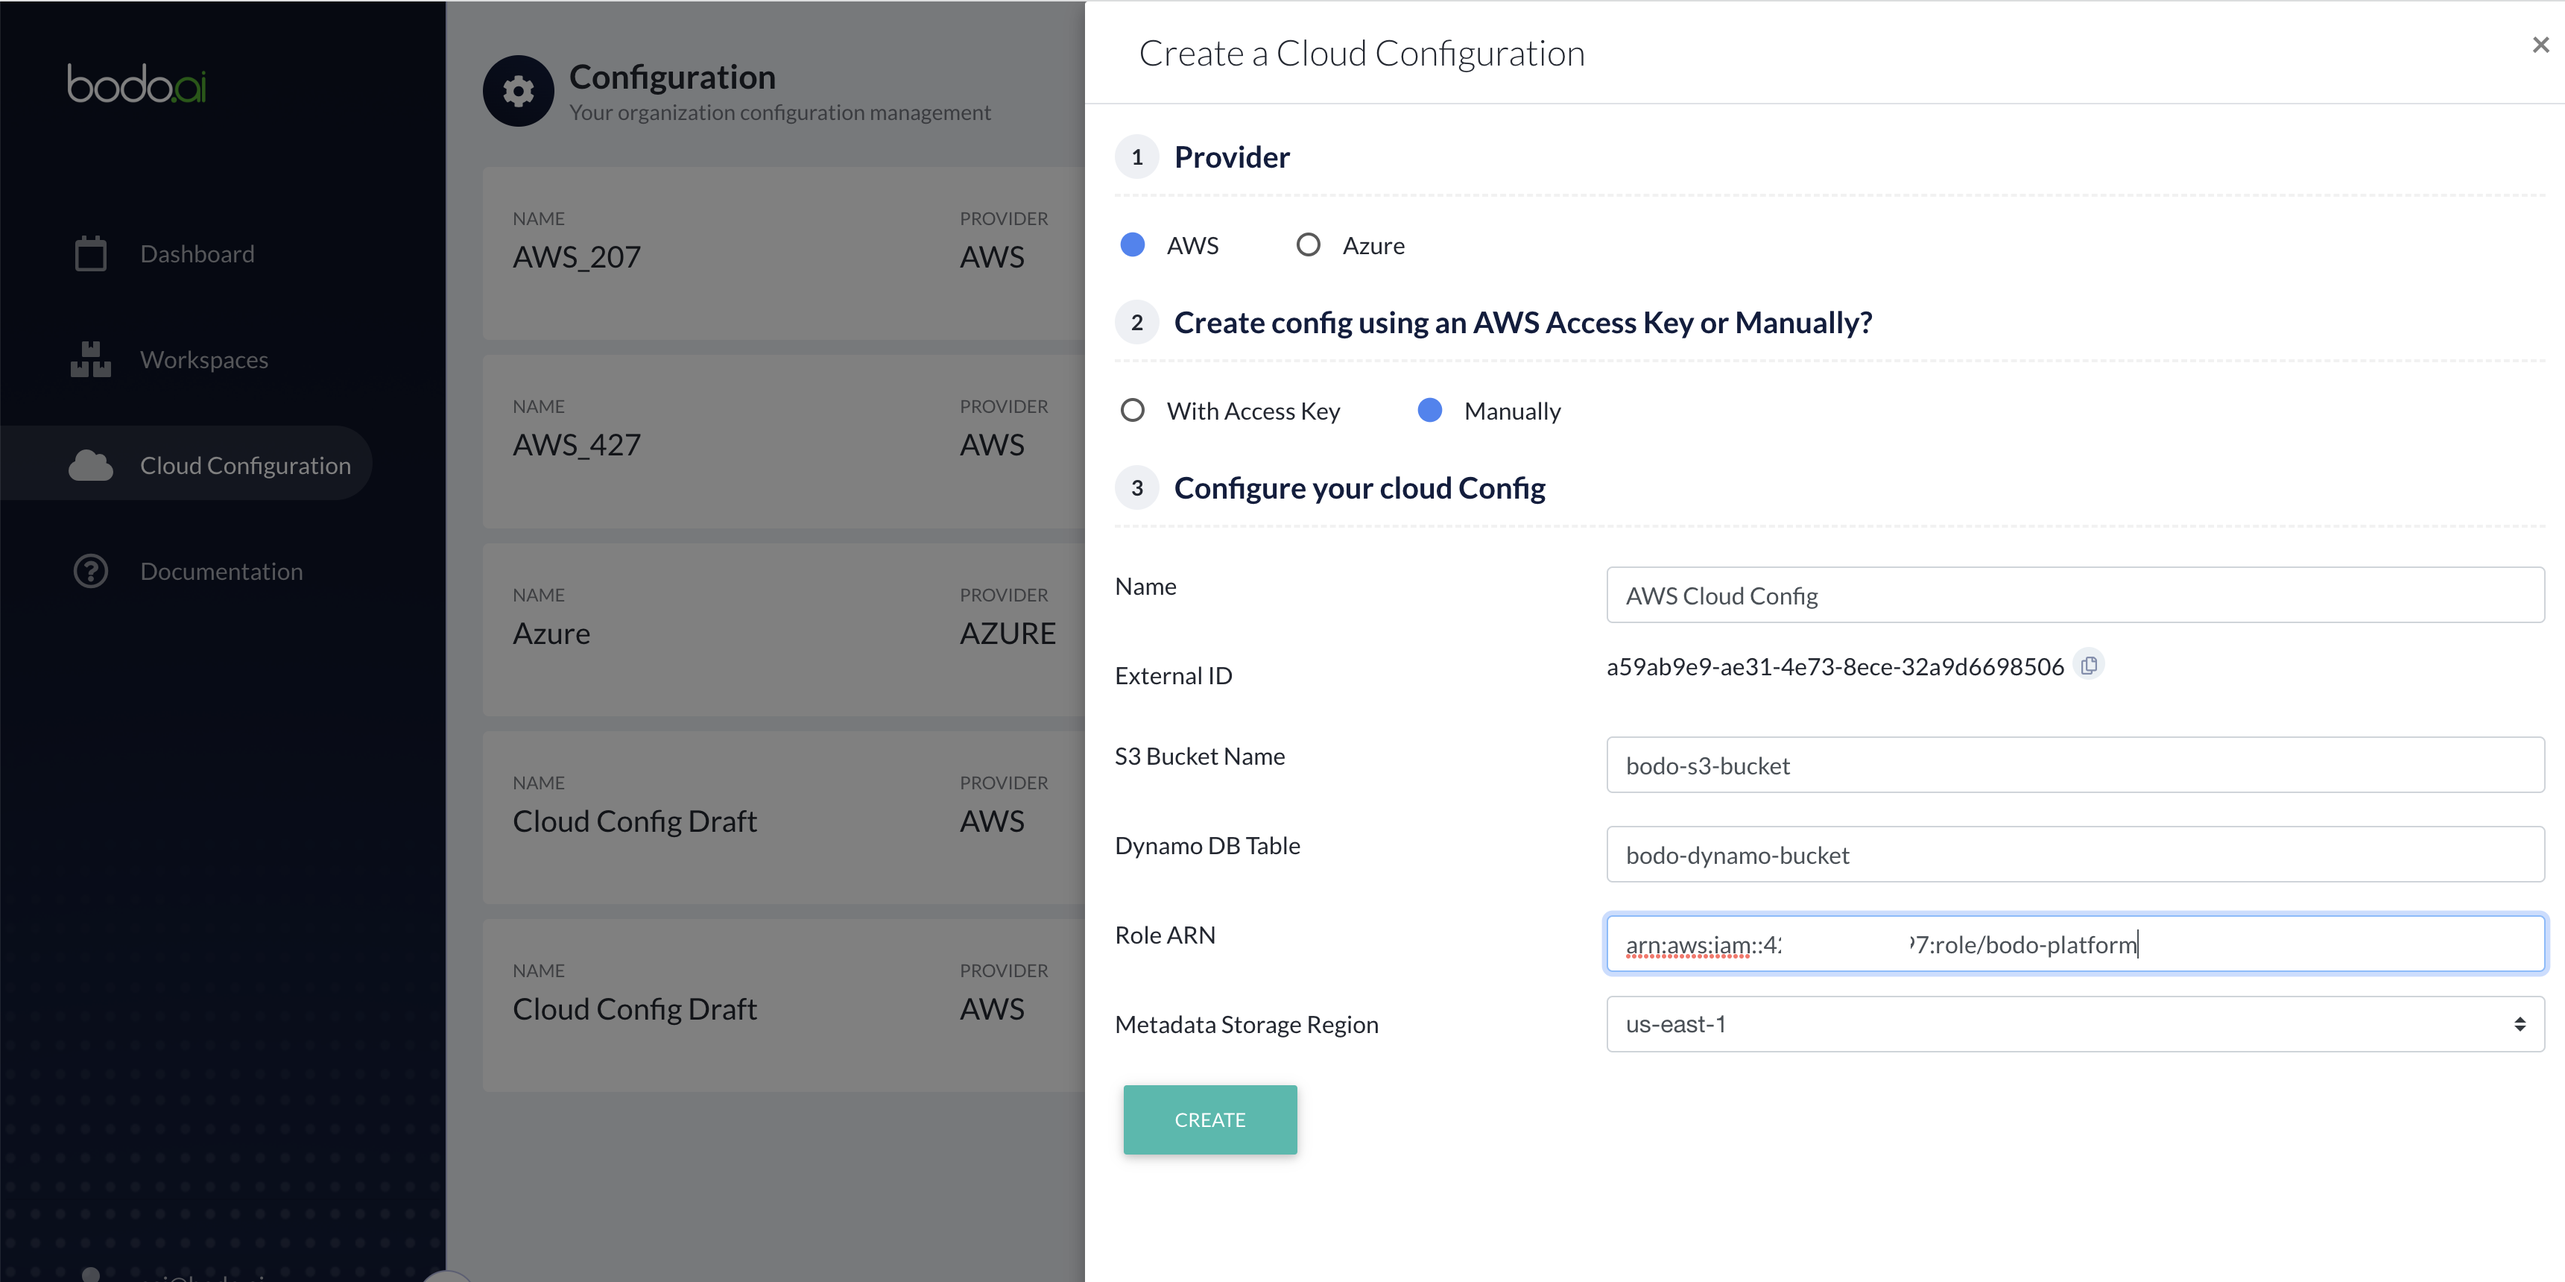
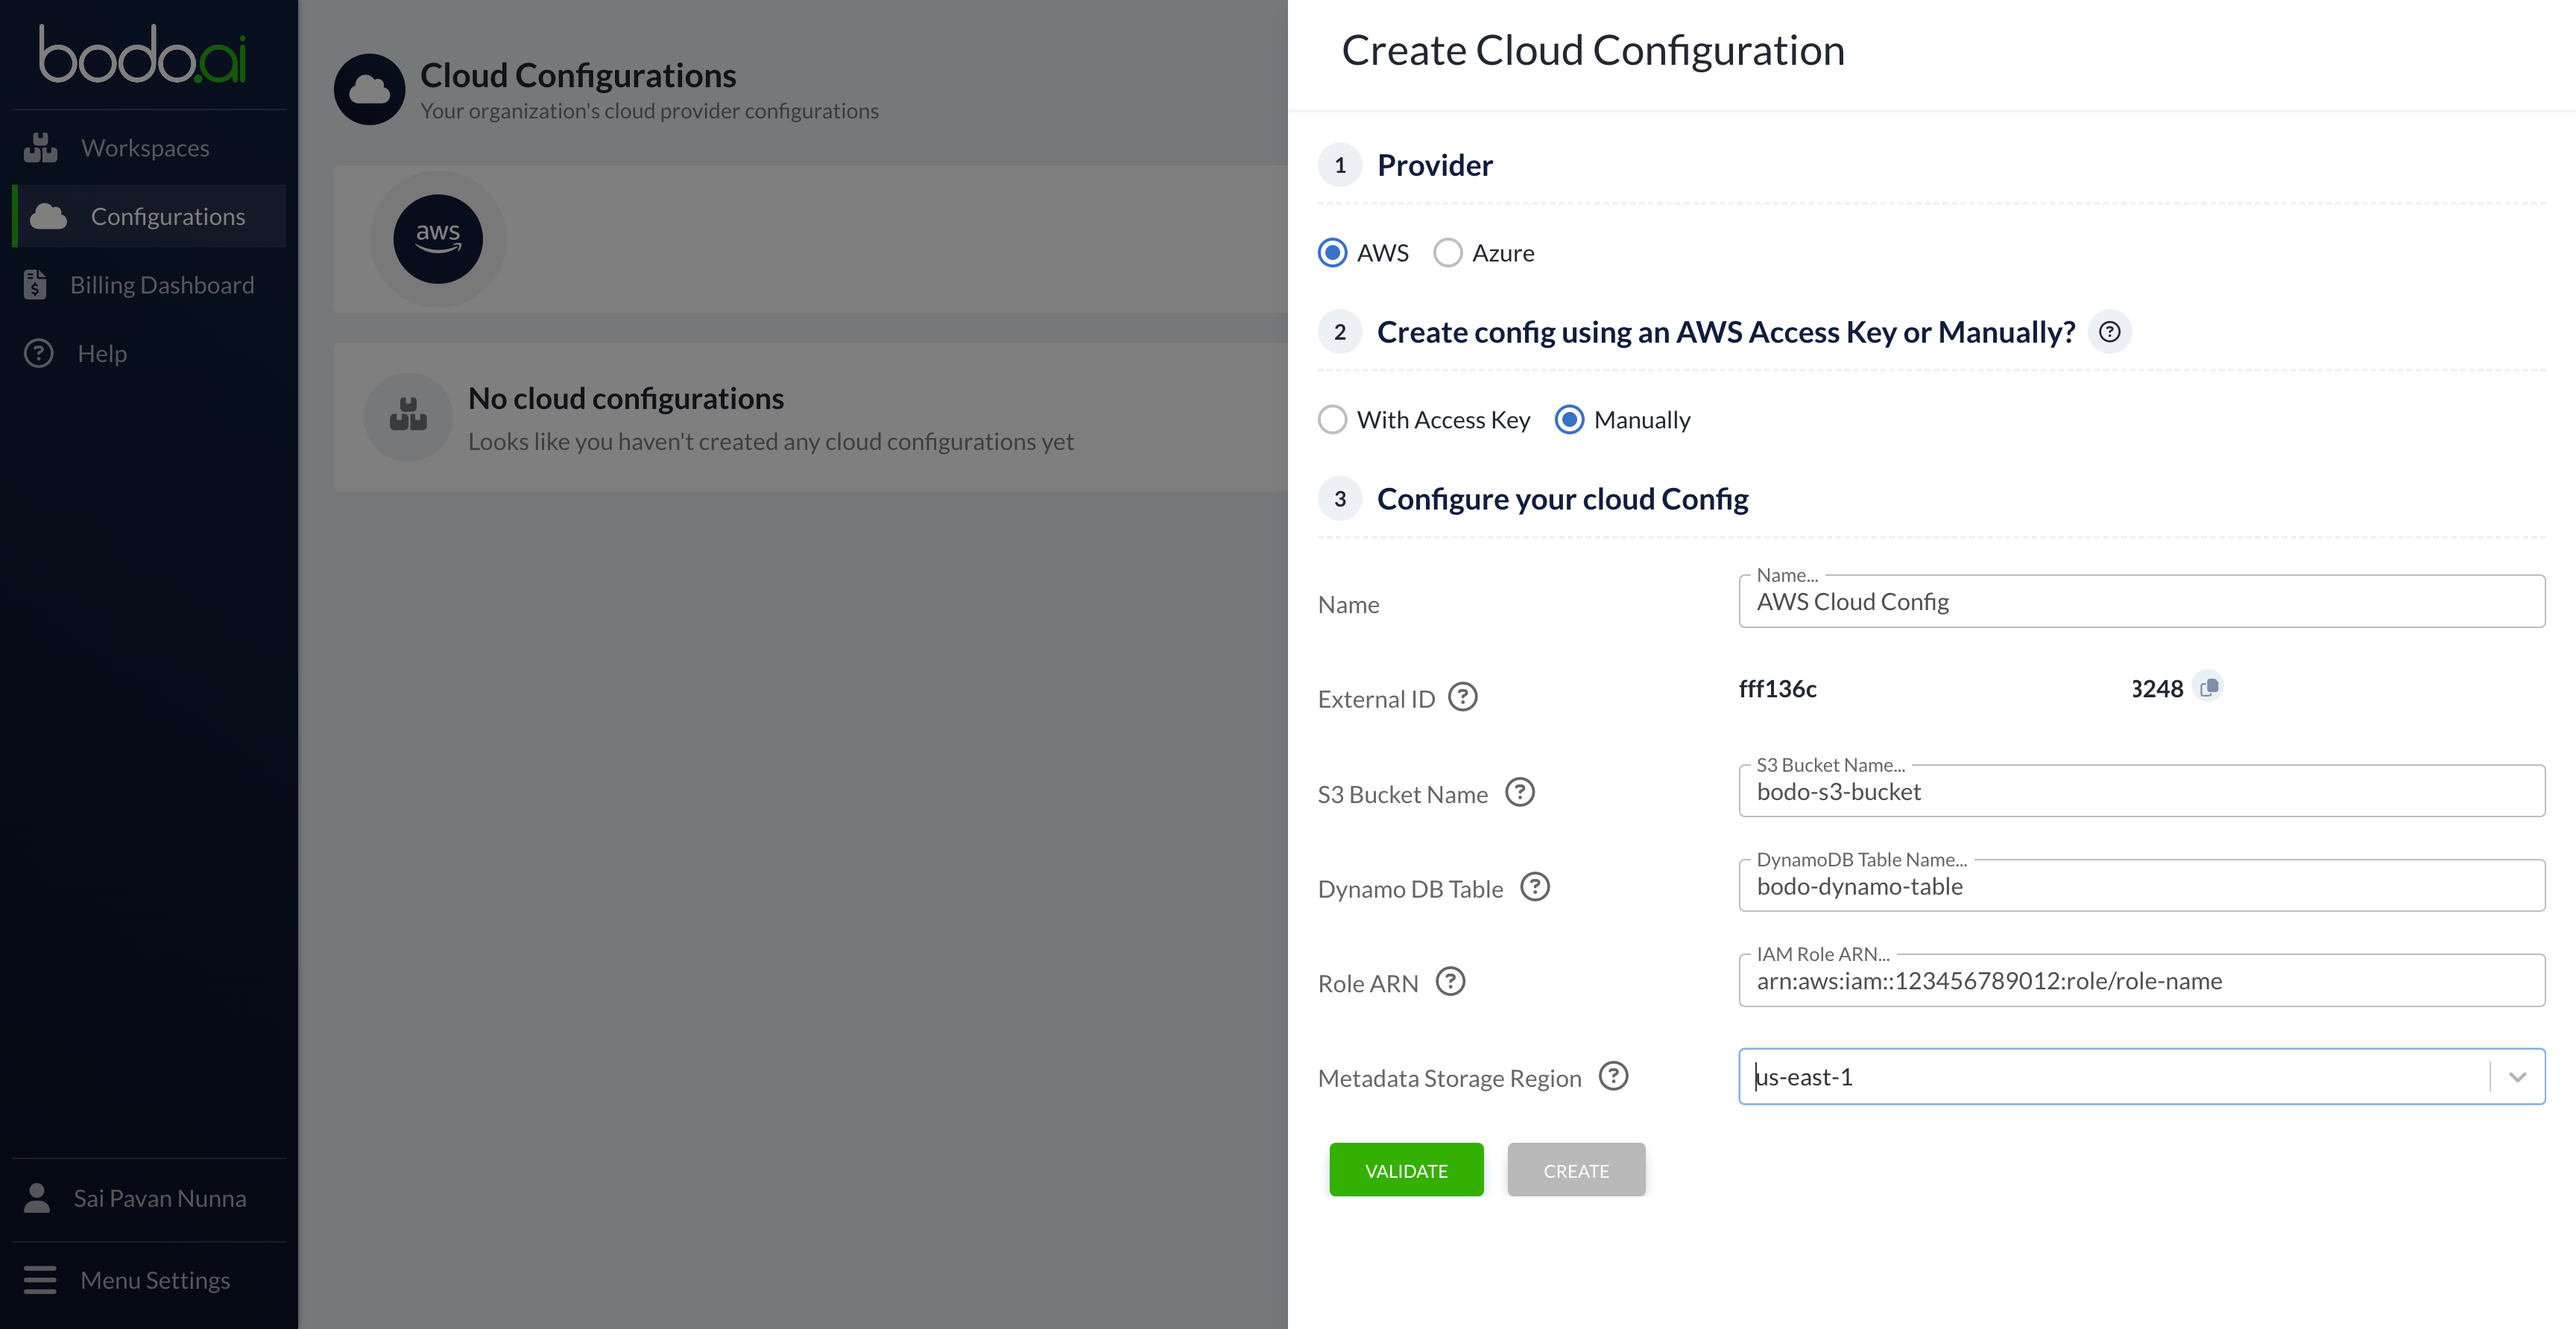
Update Documentation (#7352)

diff --git a/docs/docs/installation_and_setup/bodo_platform_aws.md b/docs/docs/installation_and_setup/bodo_platform_aws.md
@@ -4,8 +4,10 @@
 
 a.  Subscribe through the [AWS Marketplace](https://aws.amazon.com/marketplace/pp/B08NY29SMQ){target="blank"}.
 
-b.  After confirming your subscription, you'll be directed to Bodo
-    Platform's registration page.
+b.  After confirming your subscription, you should click **Set up your Account** at the top right corner of the page. Bodo Platform's registration page will open in a new tab.
+
+![Set up Account](../platform_onboarding_screenshots/set-up-account.png#center)
+
 
 c.  Fill out the fields with your information. If this is your
     individual account, use a unique name such as
@@ -26,8 +28,9 @@ e.  A page confirming that an activation link was sent to your email
 ## Setting AWS Credentials {#setting_aws_credentials}
 
 To use Bodo on AWS, you need to link your AWS account to the Bodo
-platform. This can be done using the *Cloud Configuration* page in the left
-bar as shown in the picture below:
+platform.
+
+This can be done using the *Cloud Configuration* page in the left sidebar and followed by clicking on *Create Cloud Configuration* at the top right corner of the page as shown in the picture below:
 
 ![Dashboard](../platform_onboarding_screenshots/dashboard.gif#center)
 
@@ -101,6 +104,13 @@ Before that, Open the Cloud Configuration Form and note down the External ID.
      
     4. All other fields can remain as it is by default and click on `Create Table`.
 
+    5. Click on the table you have just created. Then click on `Additional info` under `General Information` tab. Note down the `Amazon Resource Name (ARN)`. 
+    
+    *Replace this value whenever you need DynamoDB ARN during setup.*
+
+    ![dynamo-details-page](../create_s3_and_dynamo_screenshots/dynamo-db-details.gif#center)
+
+
 #### Setup IAM role {iam_role_setup}
 - **IAM role**
 
@@ -140,7 +150,7 @@ Before that, Open the Cloud Configuration Form and note down the External ID.
 
     11. In the list of IAM Roles, click on the role you just created.
 
-    12. Click on `Add inline policy`.
+    12. Under Permissions tab, Click on `Add Permissions` and select `Create inline policy` from the dropdown.
 
         ![Create Role Summary Page](../create_role_screenshots/create_role_manual_summary_page.png#center)
 
@@ -178,7 +188,7 @@ Platform.
 4.  Enter the Role ARN in the **Role ARN** field.
 5.  Select a **Region** from the dropdown list. 
     This is the region of your S3 bucket and Dynamo DB table.
-6.  Click on `CREATE`.
+6.  Click on `Validate`, and once you got the validation successful message, then click on `Create`.
 
 
 ![Create Cloud Configuration AWS Manual ](../platform_onboarding_screenshots/cloud_configuration_aws_manual.png#center)
